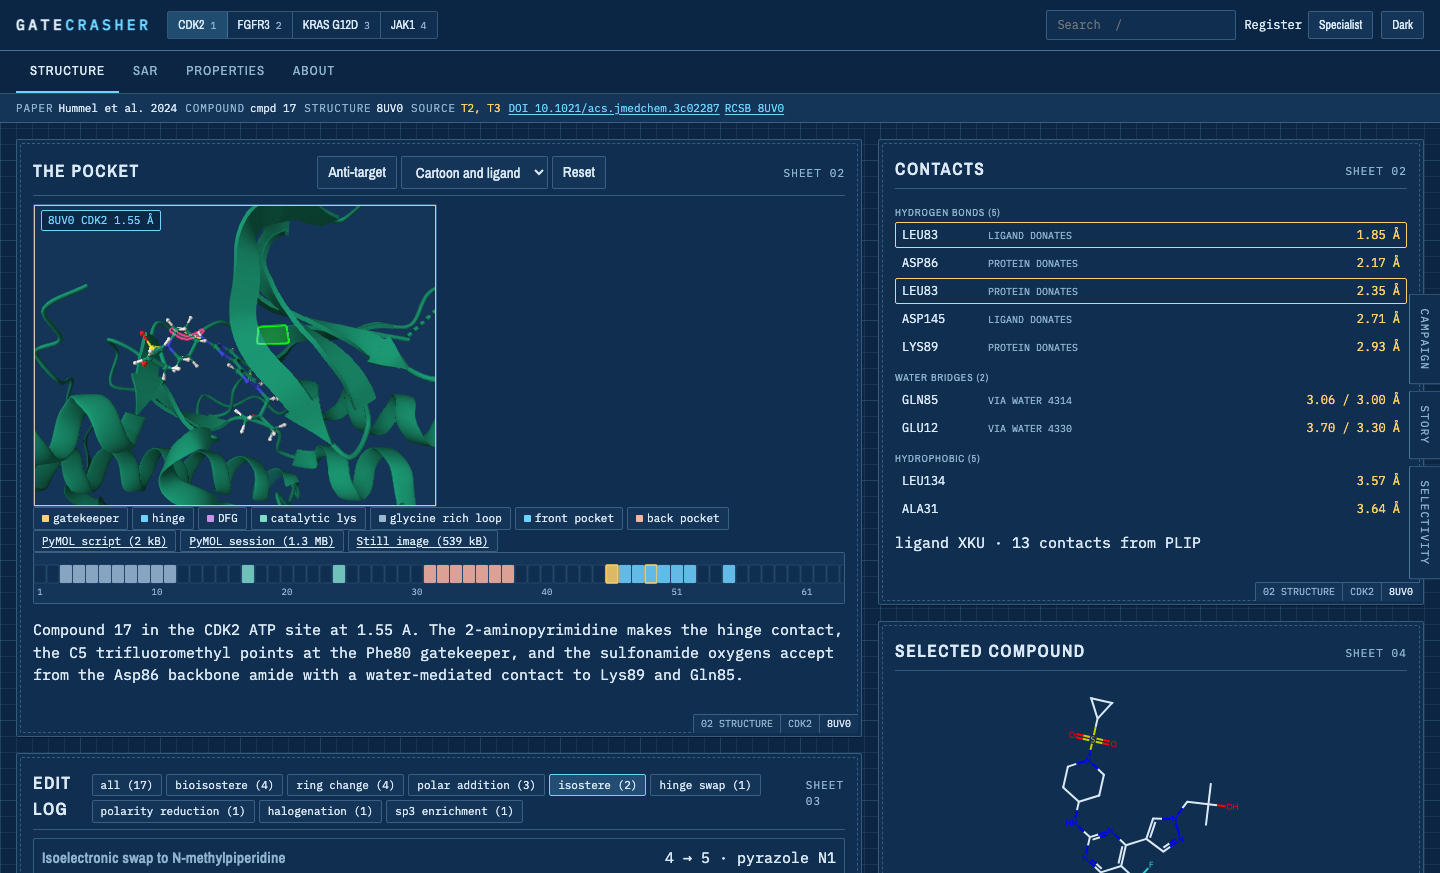
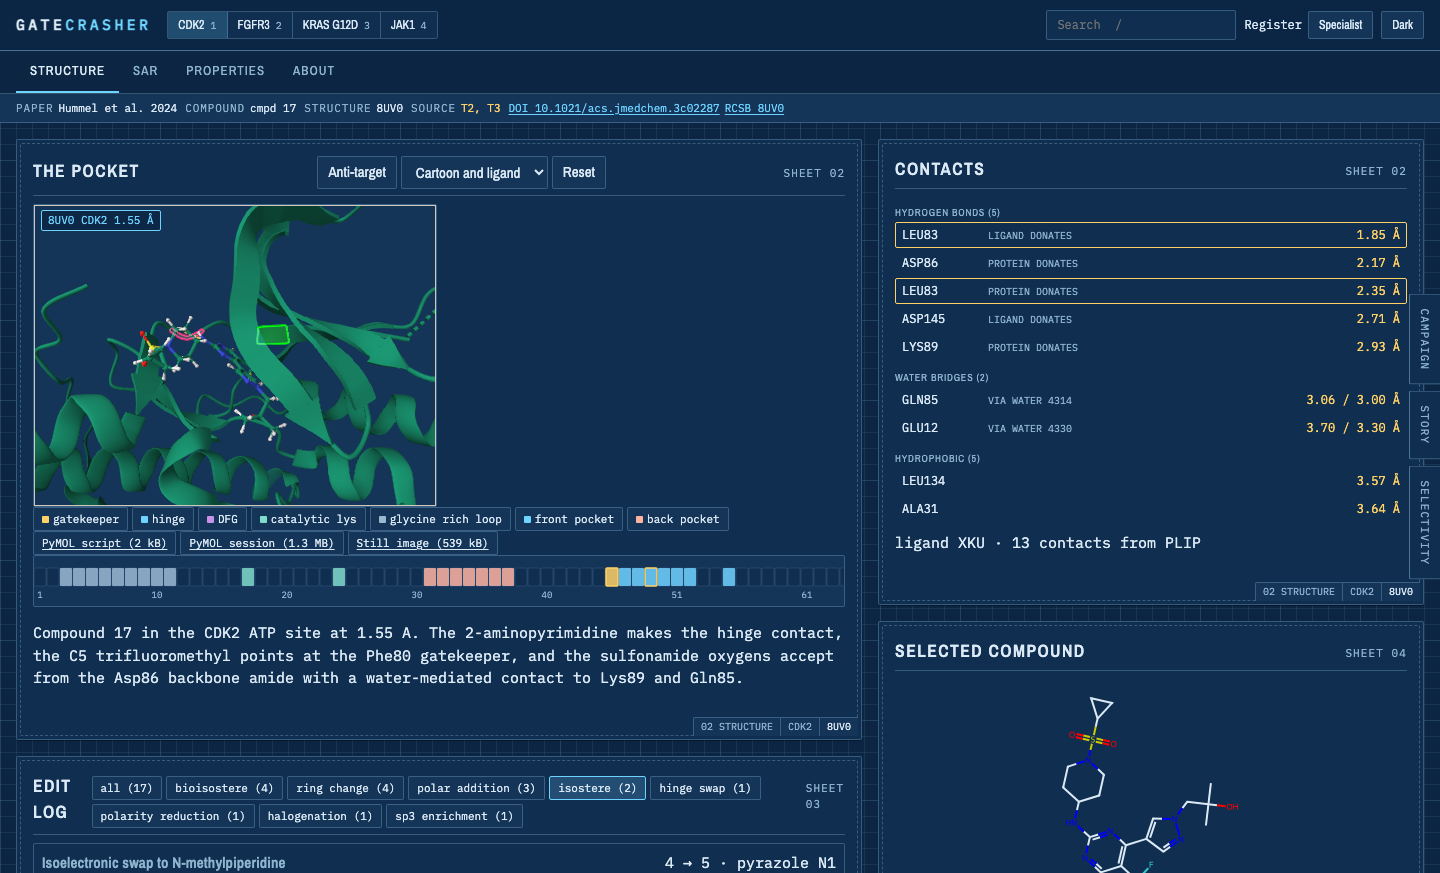
Fix the phone layout, two accessibility failures, and the landing paint
- On a 390 px phone the five-button tab strip needed 413 px, and .app's
  implicit auto grid column sized every row to it: the whole app zoomed out
  and the drawer tab bar fell below the screen. The column is now
  minmax(0, 1fr) and the tab strip scrolls inside itself.
- The phone overflow check compared scrollWidth with innerWidth, which grows
  with the overflow under mobile emulation, so 413 <= 414 passed. It now
  compares with clientWidth.
- aria-allowed-attr: the ruler's cells carried aria-selected with no role
  that allows it. The ruler is a multiselect listbox of options.
- target-size: chips were 22.5 px tall; they are 24 px minimum.
  Both only surfaced once the Structure sheet became the landing sheet.
- Mol* starts loading a frame after the landing sheet renders, so its long
  evaluation no longer holds back the caption's first paint.
- The drawer check waits for the tabs to settle before clicking: with Mol*
  evaluating, the 0.24 s slide runs at 6 frames a second.

91 browser checks pass, twice in a row.

Claude-Session: https://claude.ai/code/session_01HkDbmCTHqoA5exPm7uRHnP

Changed region(s): [[0.0, 0.7113, 0.5938, 1.0], [0.0312, 0.5876, 0.5, 0.6804], [0.4375, 0.9588, 0.5938, 1.0]]

diff --git a/web/js/panels/structure.js b/web/js/panels/structure.js
@@ -221,7 +221,11 @@ export function initStructure(state) {
       viewBox: `0 0 ${width} ${height}`,
       width,
       height,
-      role: 'group',
+      /* A listbox of options, because aria-selected is only allowed on roles that can be
+       * selected: on a bare rect inside a group it failed Lighthouse's aria-allowed-attr. Each
+       * option is named by its <title>. */
+      role: 'listbox',
+      'aria-multiselectable': 'true',
       'aria-label': isKinase ? 'KLIFS pocket ruler, 85 positions' : 'Sequence ruler',
     }, el.ruler);
 
@@ -239,6 +243,7 @@ export function initStructure(state) {
         'fill-opacity': residue.motif === 'other' ? 0.9 : 0.85,
         stroke: selected.has(key) ? cssToken('--focus') : cssToken('--line'),
         'stroke-width': selected.has(key) ? 1.5 : 0.5,
+        role: 'option',
         'aria-selected': String(selected.has(key)),
         tabindex: '-1',
       }, root);
@@ -586,8 +591,13 @@ export function initStructure(state) {
       el.antiToggle.setAttribute('aria-pressed', 'false');
       figures = null;
       /* Not awaited: this is the landing sheet, and its chips, ruler, contacts and caption
-       * must not wait for 5 MB of Mol* and a coordinate file before the page can show. */
-      loadTargetWhenVisible().catch((err) => console.warn('[structure] viewer load failed', err));
+       * must not wait for 5 MB of Mol* and a coordinate file before the page can show. Nor is
+       * it started until a frame has gone by: evaluating Mol* is a long task, and started
+       * straight away it held the caption's first paint back by seconds on a throttled
+       * phone. A frame, then a task, lets the sheet paint first. */
+      requestAnimationFrame(() => setTimeout(() => {
+        loadTargetWhenVisible().catch((err) => console.warn('[structure] viewer load failed', err));
+      }, 0));
       renderChips();
       renderRuler();
       renderContacts();

diff --git a/web/css/panels.css b/web/css/panels.css
@@ -6,6 +6,11 @@
 .app {
   display: grid;
   grid-template-rows: auto auto 1fr;
+  /* minmax(0, 1fr), not the implicit auto column: an auto column sizes to its widest
+   * row's min-content, and on a 390 px phone the tab strip's 413 px pushed the header, the
+   * rail and main to 413 as well, so the whole app zoomed out and the drawer tab bar fell
+   * off the bottom of the screen. */
+  grid-template-columns: minmax(0, 1fr);
   min-height: 100vh;
 }
 
@@ -133,7 +138,14 @@
   padding: 0 var(--sheet-pad);
   background: var(--bg);
   border-bottom: var(--rule) solid var(--line);
+  /* Where the tabs are wider than the screen they scroll inside the strip, as a phone's
+   * tab bar does, rather than widening the page. */
+  overflow-x: auto;
+  scrollbar-width: none;
 }
+
+.tab-strip::-webkit-scrollbar { display: none; }
+.tab-strip button { flex: 0 0 auto; white-space: nowrap; }
 
 .tab-strip button {
   border: 0;
@@ -434,6 +446,11 @@ html[data-booting] main { visibility: hidden; }
 }
 
 .beat-show { margin-top: 6px; }
+
+/* WCAG 2.5.8: every chip is a control (motif filters, downloads, change-type filters), and
+ * at 22.5 px tall they missed the 24 px minimum target. Lighthouse only saw it once the
+ * Structure sheet became the landing sheet. */
+.chip { min-height: 24px; }
 
 /* ------------------------------------------------------------------- drawers */
 /* The story pulls out over whichever sheet is open, so the structure never leaves the

diff --git a/tools/browser_check.py b/tools/browser_check.py
@@ -301,6 +301,10 @@ def main() -> int:
         check("Escape closes the drawer",
               tab.wait_for("document.querySelectorAll('.drawer.is-open').length === 0", 5))
 
+        # Closing a drawer slides the tabs back from right: 540px. Click one mid-slide and
+        # the click lands where the button was a frame ago. That happens while Mol* is still
+        # evaluating, when a 0.24 s transition runs at 6 frames a second, so wait for rest.
+        tab.wait_for("getComputedStyle(document.getElementById('drawer-tabs')).right === '0px'", 5)
         tab.click("#drawer-tabs button[data-drawer='plot']")
         check("the selectivity drawer draws its plot when it is opened",
               tab.wait_for("!!document.querySelector('#story-plot .main-svg')", 25),
@@ -648,10 +652,14 @@ def main() -> int:
                  deviceScaleFactor=3, mobile=True)
         tab.goto(args.base + "/")
         time.sleep(1.5)
+        # Against clientWidth, not innerWidth. Under mobile emulation an overflowing page
+        # widens the layout viewport, and innerWidth grows WITH the overflow: a 413 px page on
+        # a 390 px phone reported innerWidth 413 and passed, while the real phone zoomed the
+        # whole app out and pushed the drawer tab bar off the bottom of the screen.
         check("nothing overflows the page sideways",
-              tab.js("document.documentElement.scrollWidth <= window.innerWidth + 1"),
+              tab.js("document.documentElement.scrollWidth <= document.documentElement.clientWidth + 1"),
               f"scrollWidth {tab.js('document.documentElement.scrollWidth')} "
-              f"vs {tab.js('window.innerWidth')}")
+              f"vs clientWidth {tab.js('document.documentElement.clientWidth')}")
         check("the edit log becomes its own tab below 900px",
               tab.js("""getComputedStyle(document.querySelector("#tab-strip button[data-tab='editlog']")).display""")
               != "none")
